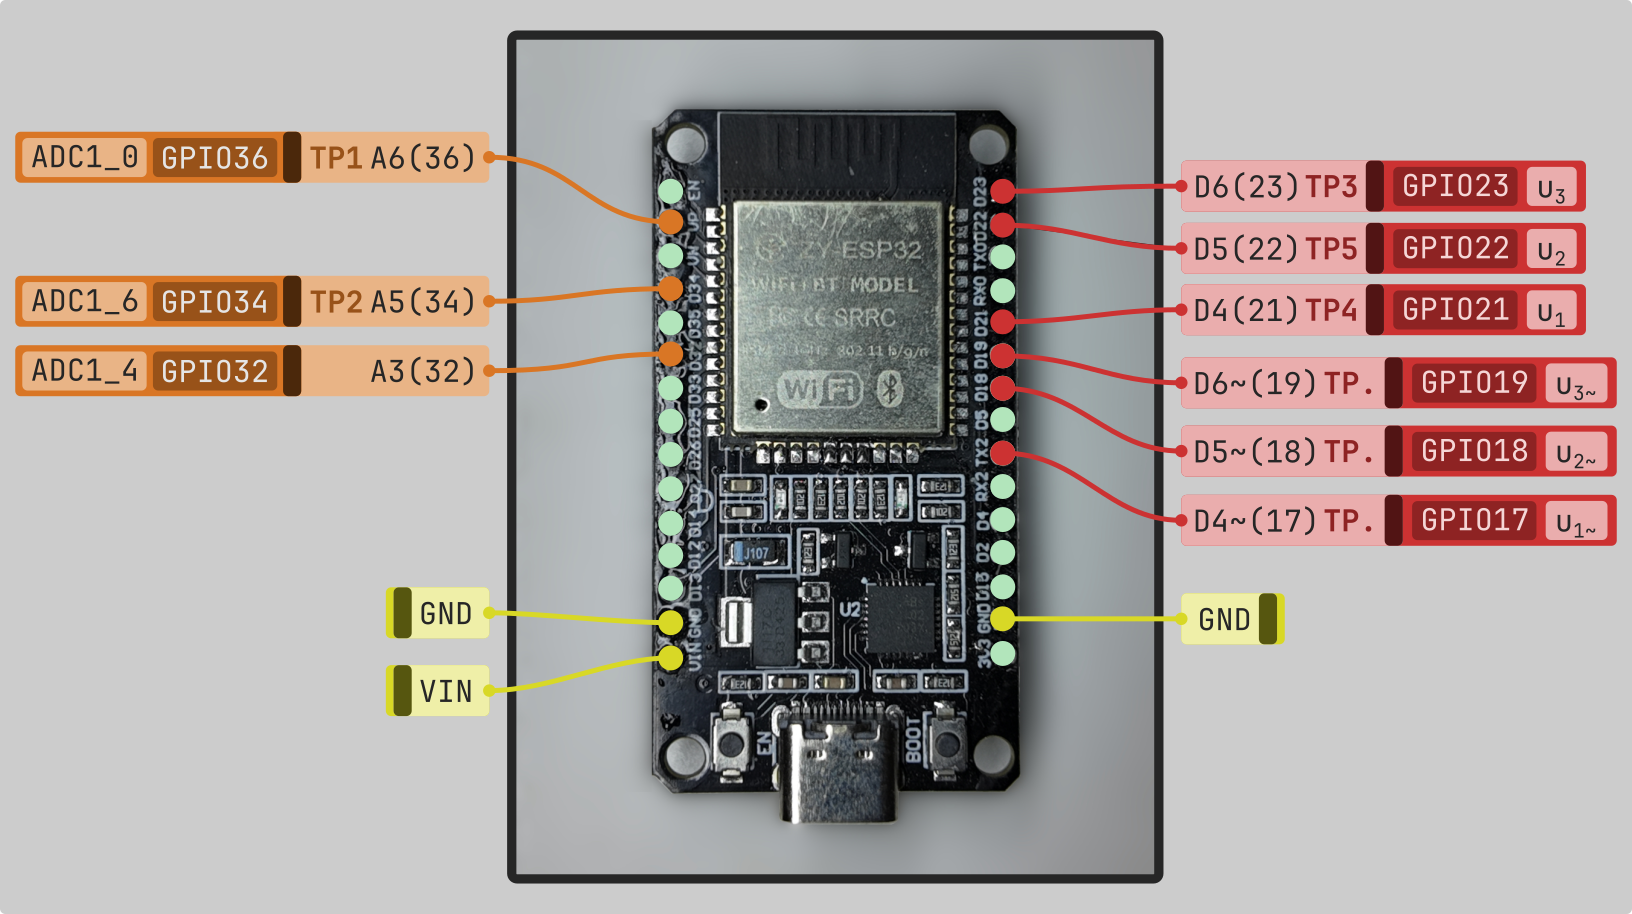
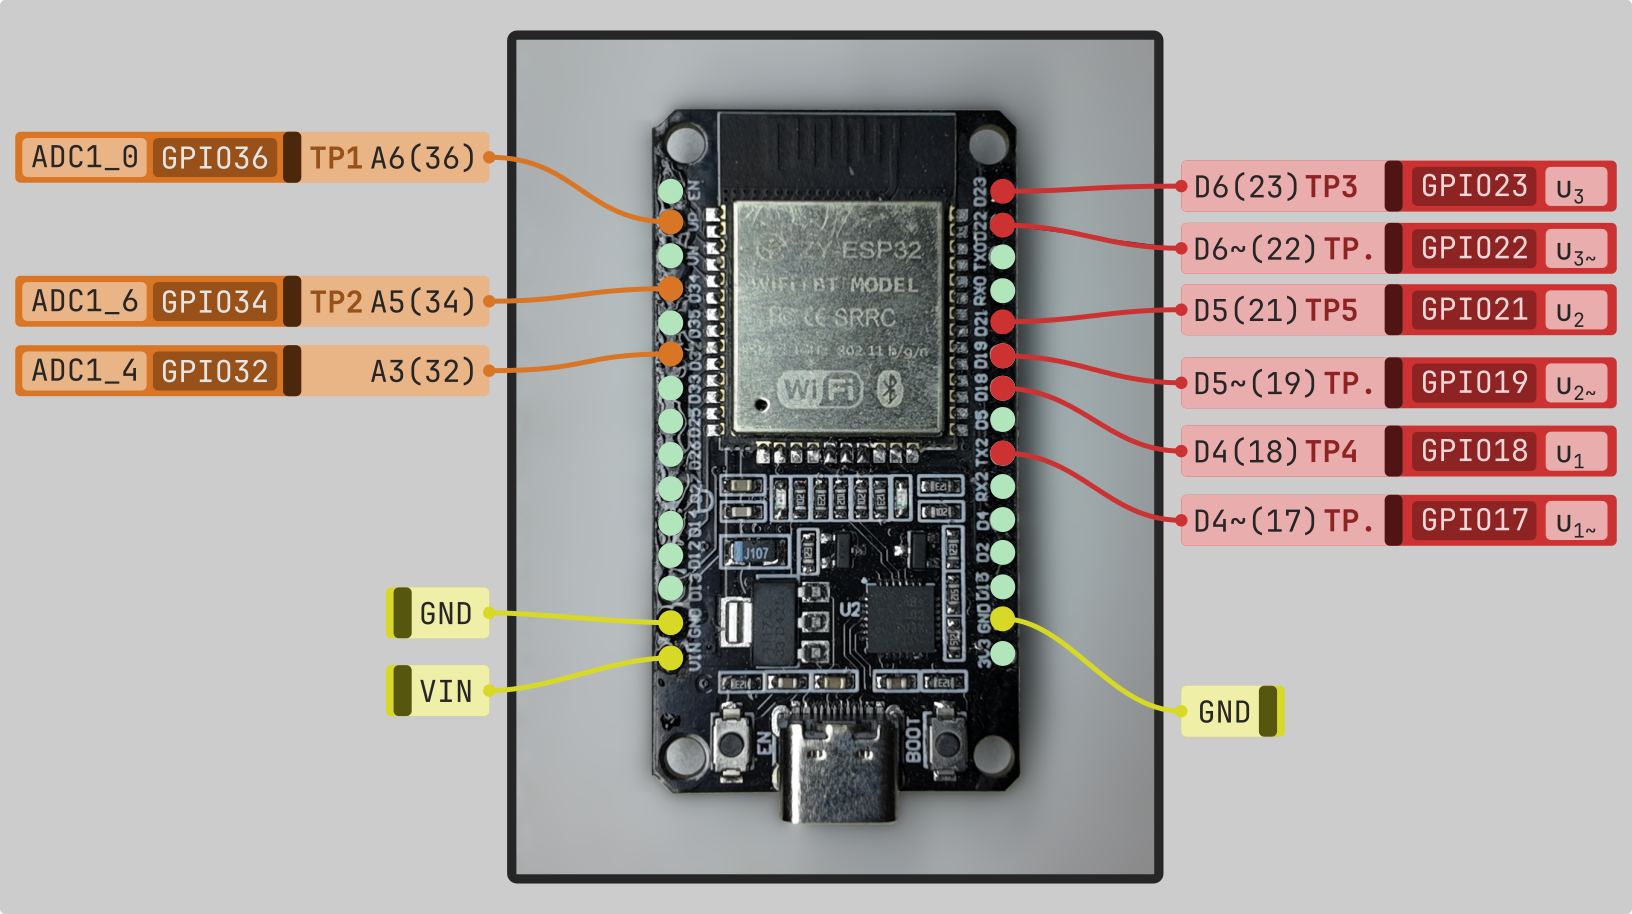
iter

diff --git a/embedded/esp32_idf/main/src/signal_controller.cpp b/embedded/esp32_idf/main/src/signal_controller.cpp
@@ -10,6 +10,11 @@ const uint32_t MASK_OUT_6 = (1U << PIN_OUT_6);
 const uint32_t MASK_OUT_5 = (1U << PIN_OUT_5);
 const uint32_t MASK_OUT_4 = (1U << PIN_OUT_4);
 
+// mask negative
+const uint32_t MASK_OUT_6_ = (1U << PIN_OUT_6_);
+const uint32_t MASK_OUT_5_ = (1U << PIN_OUT_5_);
+const uint32_t MASK_OUT_4_ = (1U << PIN_OUT_4_);
+
 static TaskHandle_t s_signal_task_handle = NULL;
 // static volatile SignalState s_signal_state = SignalState::IDLE;
 
@@ -34,7 +39,7 @@ void signal_controller_init() {
     gpio_config_t io_conf = {};
     io_conf.intr_type = GPIO_INTR_DISABLE;
     io_conf.mode = GPIO_MODE_OUTPUT;
-    io_conf.pin_bit_mask = (1ULL << PIN_OUT_6) | (1ULL << PIN_OUT_5) | (1ULL << PIN_OUT_4) | (1ULL << PIN_OUT_6_) | (1ULL << PIN_OUT_2_) | (1ULL << PIN_OUT_1_);
+    io_conf.pin_bit_mask = (1ULL << PIN_OUT_6) | (1ULL << PIN_OUT_5) | (1ULL << PIN_OUT_4) | (1ULL << PIN_OUT_6_) | (1ULL << PIN_OUT_5_) | (1ULL << PIN_OUT_4_);
     io_conf.pull_down_en = GPIO_PULLDOWN_DISABLE;
     io_conf.pull_up_en = GPIO_PULLUP_DISABLE;
     gpio_config(&io_conf);
@@ -44,8 +49,8 @@ void signal_controller_init() {
     gpio_set_level(PIN_OUT_5, 0);
     gpio_set_level(PIN_OUT_4, 0);
     gpio_set_level(PIN_OUT_6_, 0);
-    gpio_set_level(PIN_OUT_2_, 0);
-    gpio_set_level(PIN_OUT_1_, 0);
+    gpio_set_level(PIN_OUT_5_, 0);
+    gpio_set_level(PIN_OUT_4_, 0);
 
     // 2. Populate Default Pattern into Set A
     g_dataset_a.time_durations[0] = 10; 
@@ -184,17 +189,26 @@ static void signal_loop_task(void* arg) {
         for (int i = 0; i < sz; i++) {
             uint32_t us  = dataset->time_durations[i];
             
-            // clear all 3 pins
-            GPIO.out_w1tc = MASK_OUT_6 | MASK_OUT_5 | MASK_OUT_4;
+            // clear all 6 pins
+            GPIO.out_w1tc = MASK_OUT_6  | MASK_OUT_5  | MASK_OUT_4 |
+                            MASK_OUT_6_ | MASK_OUT_5_ | MASK_OUT_4_;
             
-            // calculate bits
-            GPIO.out_w1ts = (dataset->modes_d6[i] << PIN_OUT_6) | 
-                            (dataset->modes_d5[i] << PIN_OUT_5) | 
-                            (dataset->modes_d4[i] << PIN_OUT_4);
-
             // wait in microseconds 
             if (us > 0) {
-                esp_rom_delay_us(us);
+                esp_rom_delay_us(1);
+            }
+
+            // calculate bits
+            GPIO.out_w1ts =  (dataset->modes_d6[i] << PIN_OUT_6) |
+                            (~dataset->modes_d6[i] << PIN_OUT_6_) |
+                             (dataset->modes_d5[i] << PIN_OUT_5) |
+                            (~dataset->modes_d5[i] << PIN_OUT_5_) |
+                             (dataset->modes_d4[i] << PIN_OUT_4) |
+                            (~dataset->modes_d4[i] << PIN_OUT_4_);
+
+            // wait in microseconds 
+            if (us > 1) {
+                esp_rom_delay_us(us - 1);
             }
             
             // trigger analog reading if needed
@@ -221,6 +235,9 @@ static void signal_loop_task(void* arg) {
     gpio_set_level(PIN_OUT_6, 0);
     gpio_set_level(PIN_OUT_5, 0);
     gpio_set_level(PIN_OUT_4, 0);
+    gpio_set_level(PIN_OUT_6_, 0);
+    gpio_set_level(PIN_OUT_5_, 0);
+    gpio_set_level(PIN_OUT_4_, 0);
     
     led_off();
 

diff --git a/embedded/esp32_idf/main/include/helper_common.h b/embedded/esp32_idf/main/include/helper_common.h
@@ -18,12 +18,12 @@
 #define CORE_1 1
 
 
-#define PIN_OUT_6  GPIO_NUM_23 // Bit 2 (4)
-#define PIN_OUT_5  GPIO_NUM_22 // Bit 1 (2)
-#define PIN_OUT_4  GPIO_NUM_21 // Bit 0 (1)
-#define PIN_OUT_6_  GPIO_NUM_19 // 
-#define PIN_OUT_2_  GPIO_NUM_18 // 
-#define PIN_OUT_1_  GPIO_NUM_17 // 
+#define PIN_OUT_6   GPIO_NUM_23 // Bit 2 (4)
+#define PIN_OUT_6_  GPIO_NUM_22 // 
+#define PIN_OUT_5   GPIO_NUM_21 // Bit 1 (2)
+#define PIN_OUT_5_  GPIO_NUM_19 // 
+#define PIN_OUT_4   GPIO_NUM_18 // Bit 0 (1)
+#define PIN_OUT_4_  GPIO_NUM_17 // 
 
 
 // .. globals

diff --git a/embedded/esp32_idf/main/src/ble_controller.cpp b/embedded/esp32_idf/main/src/ble_controller.cpp
@@ -305,10 +305,10 @@ void ble_router_set_port(uint16_t port, uint16_t value) {
             gpio_set_level(PIN_OUT_6_, value);
             break;
         case 2:
-            gpio_set_level(PIN_OUT_2_, value);
+            gpio_set_level(PIN_OUT_5_, value);
             break;
         case 1:
-            gpio_set_level(PIN_OUT_1_, value);
+            gpio_set_level(PIN_OUT_4_, value);
             break;
         default:
             ESP_LOGE(TAG, "could not find a valid config");